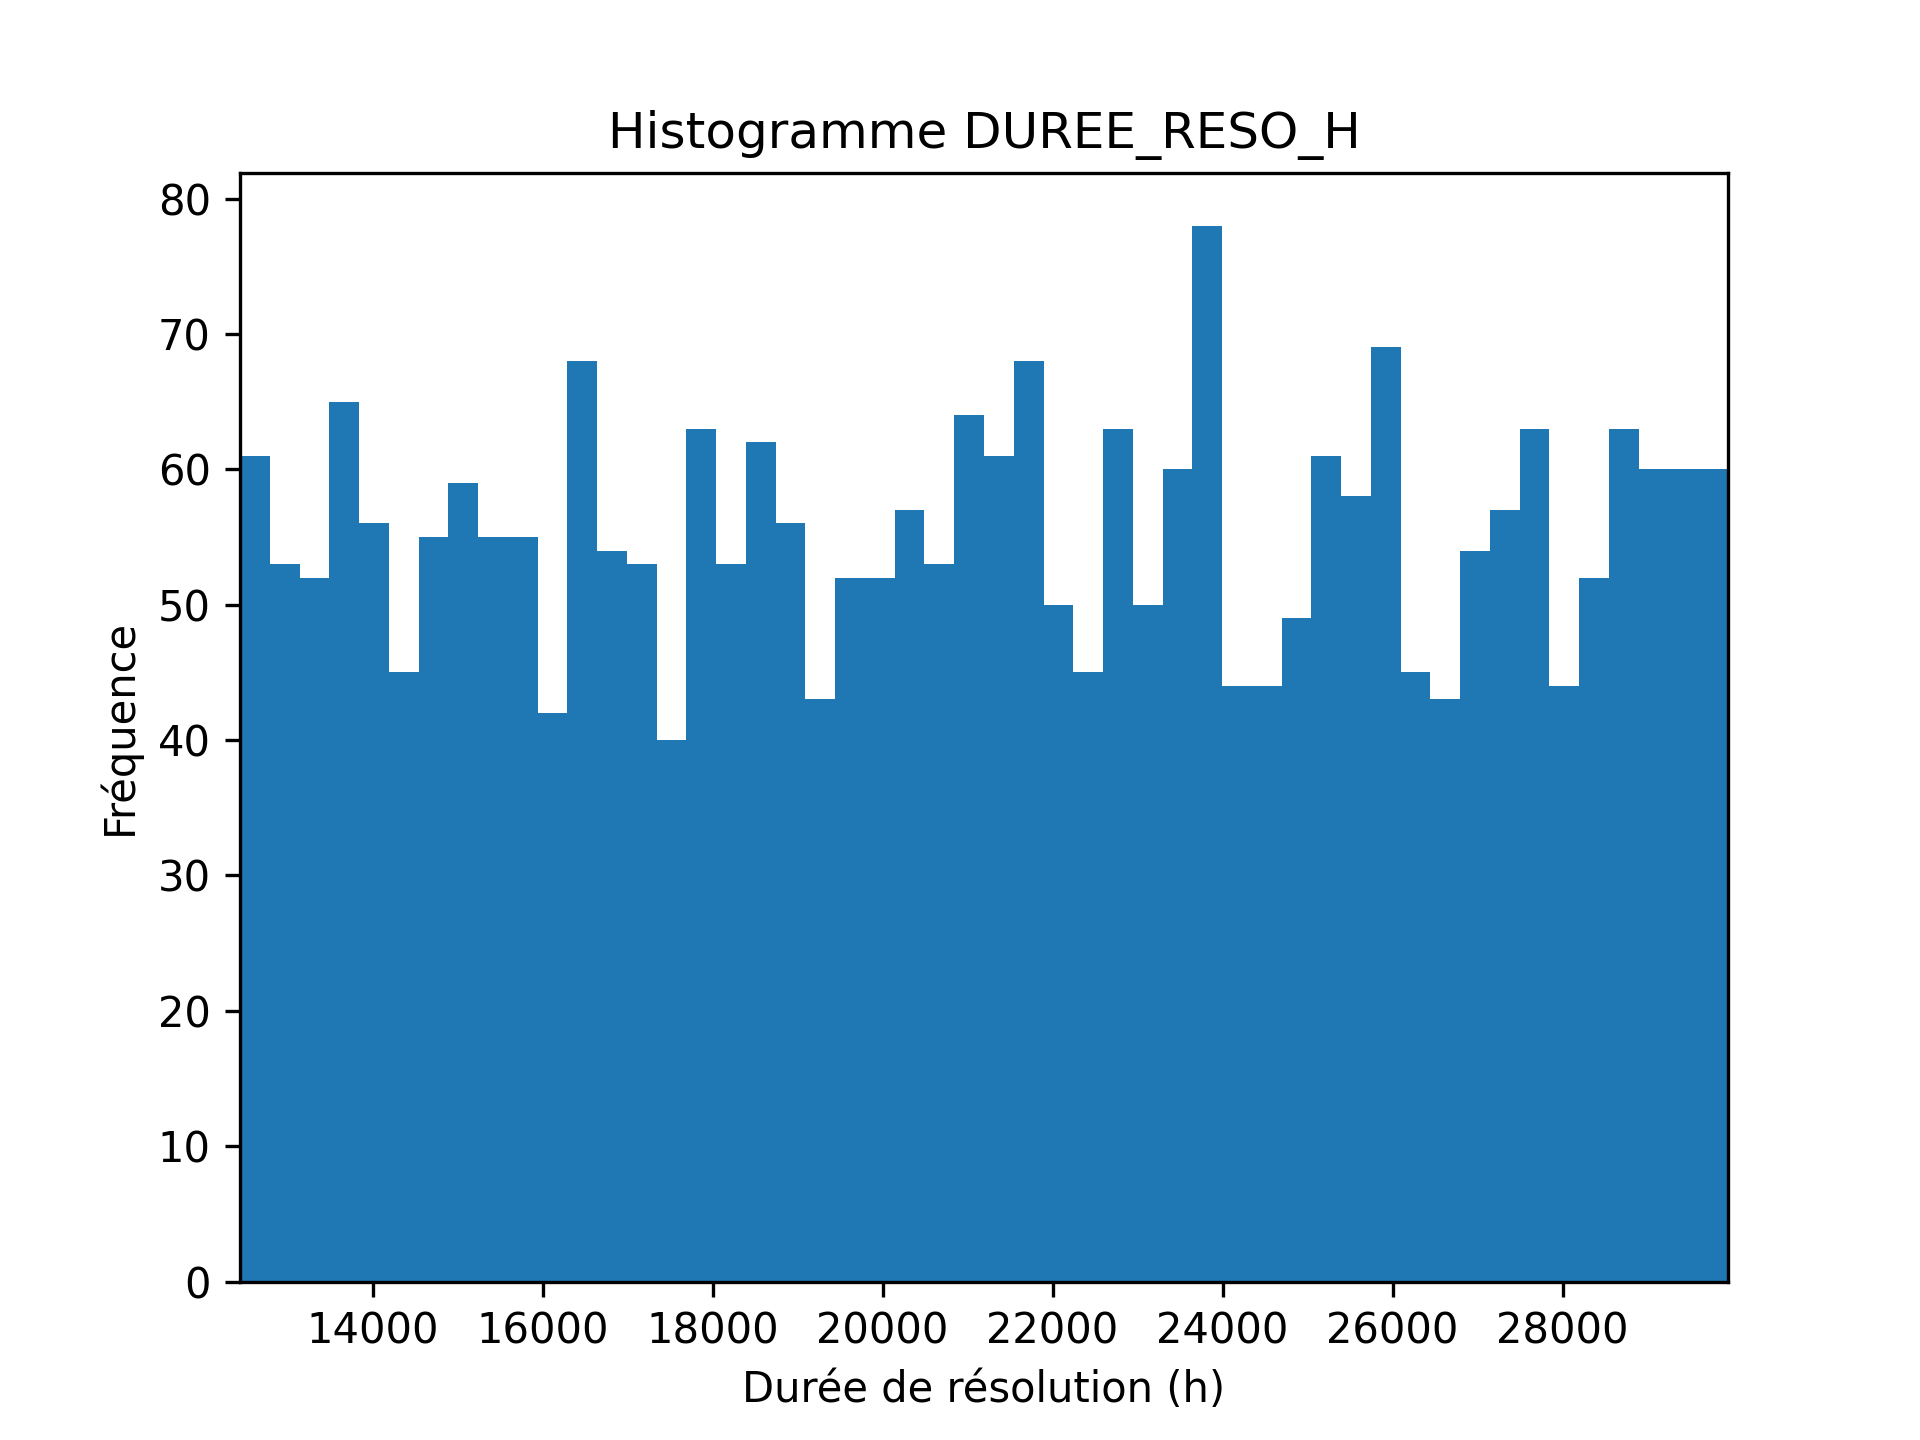
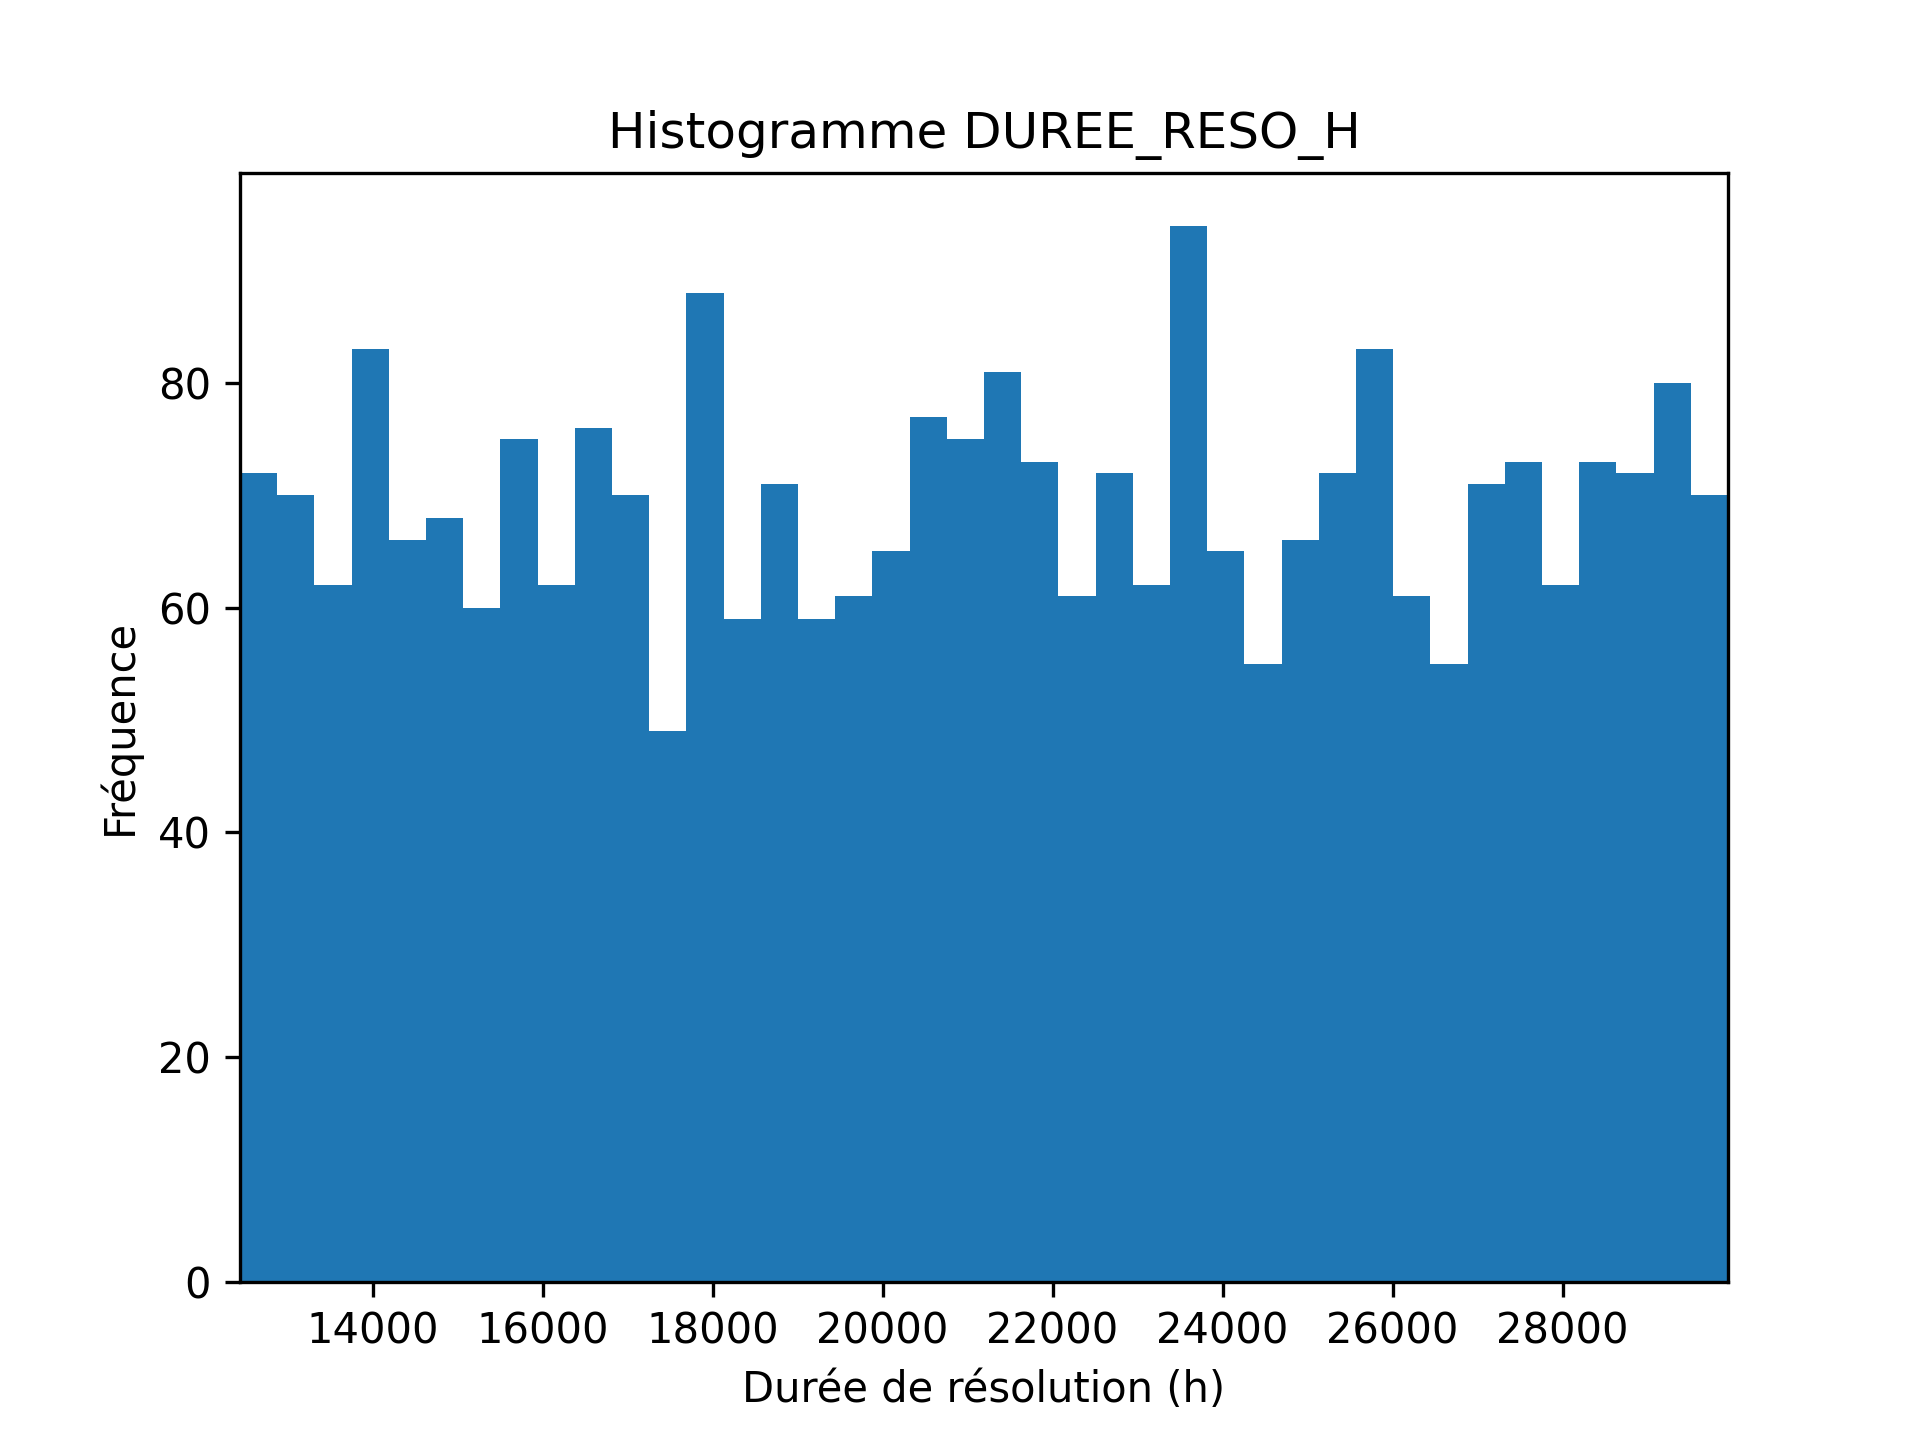
Initial commit – version mémoire

diff --git a/scripts/10_eda.py b/scripts/10_eda.py
@@ -3,42 +3,53 @@ import matplotlib.pyplot as plt
 import seaborn as sns
 from pathlib import Path
 
-# -- Lecture
+# -- Lecture -----------------------------------------------------------------
 df = pd.read_csv("data/tickets_anonymises.csv")
 
-# -- Convertir les dates
-df["HORO_DATE_OUVERTURE"] = pd.to_datetime(df["HORO_DATE_OUVERTURE"], errors="coerce", utc=True)
-df["RESOLVED_AT"] = pd.to_datetime(df["DUREE_RESO_H"], errors="coerce", utc=True)
+# -- Conversion des dates ----------------------------------------------------
+# 1) Date d’ouverture
+df["HORO_DATE_OUVERTURE"] = pd.to_datetime(
+    df["HORO_DATE_OUVERTURE"], errors="coerce", utc=True
+)
 
-# -- Durée en heures
-df["DUREE_RESO_H"] = (df["RESOLVED_AT"] - df["HORO_DATE_OUVERTURE"]).dt.total_seconds() / 3600
+# 2) Date de résolution (RESOLVED_AT existe dans le CSV, donc on la lit telle quelle)
+df["RESOLVED_AT"] = pd.to_datetime(
+    df["RESOLVED_AT"], errors="coerce", utc=True
+)
 
-# -- Nettoyage
-df = df.dropna(subset=["DUREE_RESO_H"])
+# -- Durée en heures ---------------------------------------------------------
+# ⬅  Calculer la durée à partir des deux dates, pas l’inverse
+df["DUREE_RESO_H"] = (
+    df["RESOLVED_AT"] - df["HORO_DATE_OUVERTURE"]
+).dt.total_seconds() / 3600
+
+# -- Nettoyage ---------------------------------------------------------------
+df = df.dropna(subset=["DUREE_RESO_H", "TYPE", "PRIORITE"])
 df = df[df["DUREE_RESO_H"] > 0]
 
-# -- Feature artificielle : longueur du libellé TYPE
-df["TYPE_LEN"] = df["TYPE"].astype(str).apply(len)
+# -- Feature artificielle ----------------------------------------------------
+df["TYPE_LEN"] = df["TYPE"].astype(str).str.len()
 
-# -- Créer dossier de sortie
+# -- Dossier de sortie -------------------------------------------------------
 Path("figures").mkdir(exist_ok=True)
 
-# -- Histogramme
+# -- Histogramme -------------------------------------------------------------
 plt.figure()
-plt.hist(df["DUREE_RESO_H"], bins=50)
+plt.hist(df["DUREE_RESO_H"], bins=40)        # harmonisé : 40 classes
 plt.xlabel("Durée de résolution (h)")
 plt.ylabel("Fréquence")
 plt.title("Histogramme DUREE_RESO_H")
-plt.xlim(df["DUREE_RESO_H"].min(), df["DUREE_RESO_H"].max())  # adapte dynamiquement
+plt.xlim(df["DUREE_RESO_H"].min(), df["DUREE_RESO_H"].max())
 plt.savefig("figures/Fig_N-4-1.png", dpi=300)
 
-# -- Heatmap des corrélations
+# -- Heat-map des corrélations ----------------------------------------------
 numeric_df = df[["DUREE_RESO_H", "TYPE_LEN"]]
 plt.figure()
-sns.heatmap(numeric_df.corr(), annot=True, fmt=".2f", cmap="coolwarm")
-plt.title("Corrélations — features numériques")
+sns.heatmap(numeric_df.corr(method="spearman"), annot=True, fmt=".2f", cmap="coolwarm")
+plt.title("Corrélations — features numériques (Spearman)")
 plt.savefig("figures/Fig_N-4-2.png", dpi=300)
 
-# -- Stats descriptives
+# -- Statistiques descriptives ----------------------------------------------
 df[["DUREE_RESO_H"]].describe().T.to_csv("figures/Tab_N-4-A.csv")
-print("✅ Figures générées dans /figures/")
+
+print("✅ Figures et tableau générés dans le dossier /figures/")
